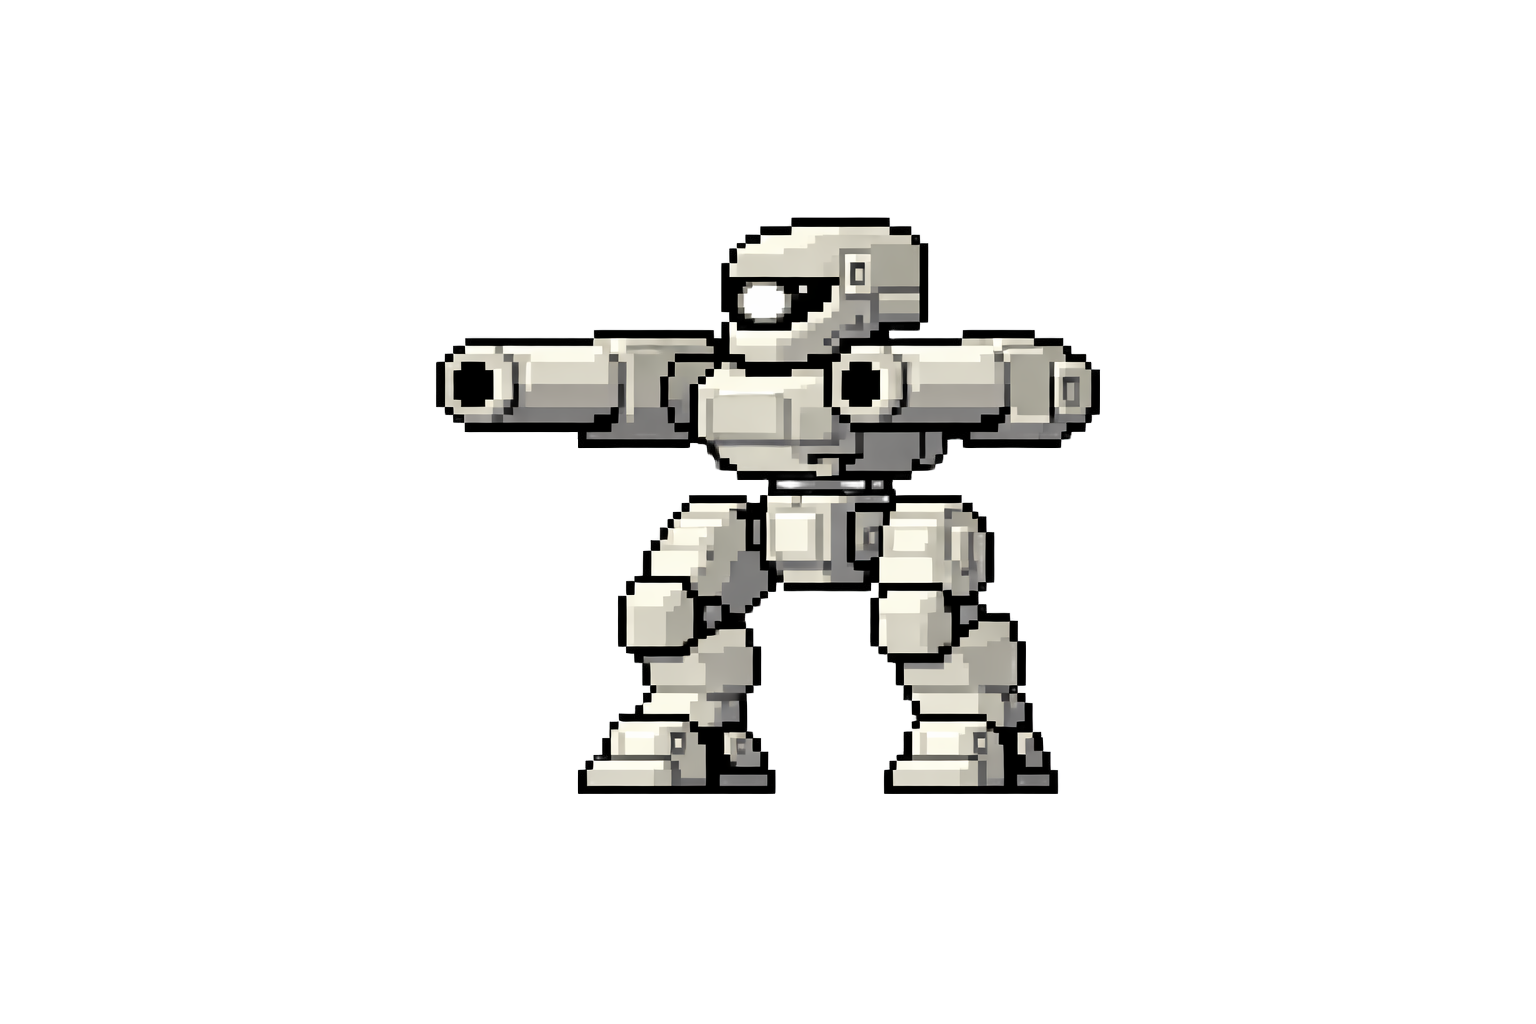
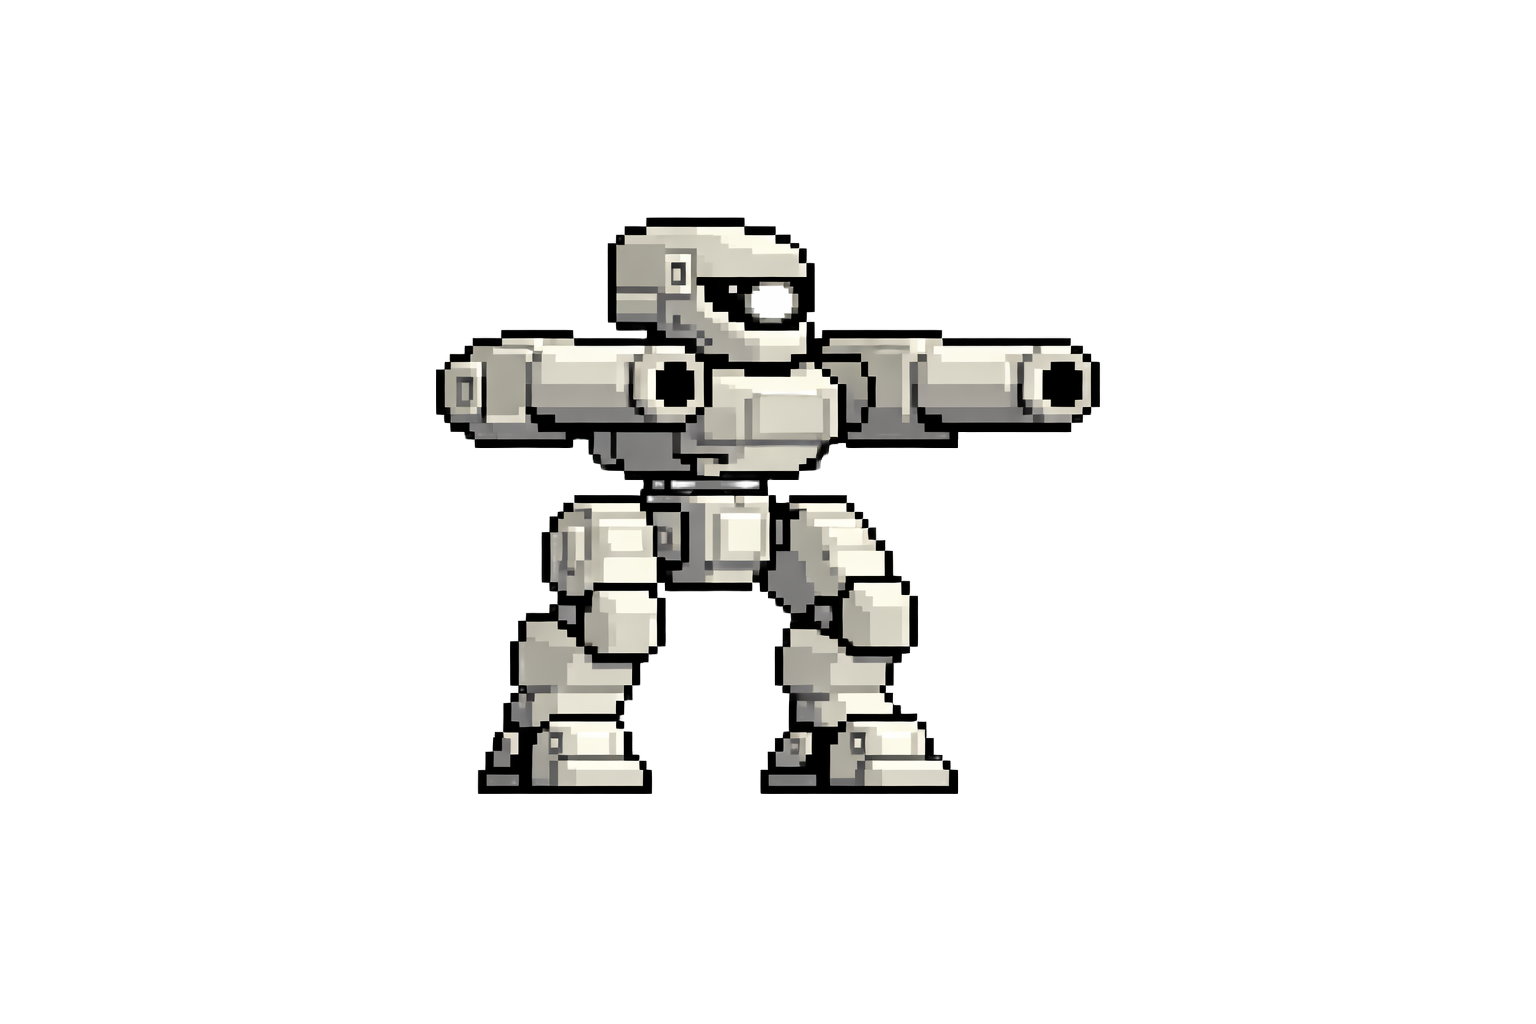
Simplified facing direction code, mech sprite faces right

Changed region(s): [[0.2812, 0.1875, 0.7188, 0.7812]]

diff --git a/Assets/Scripts/Player/PlayerControls.cs b/Assets/Scripts/Player/PlayerControls.cs
@@ -87,7 +87,7 @@ public class PlayerControls : MonoBehaviour
     private int movementDirection = 1;
     public int MovementDirection => movementDirection;
 
-    private int facing = -1;
+    private int facing = 1;
 
     // Input tracking
     private bool flyKeyHeld;
@@ -131,9 +131,9 @@ public class PlayerControls : MonoBehaviour
         if (dir != 0) movementDirection = dir;
 
         // Update facing based on aim position
-        int desiredFacing = aimMotor.AimWorldPosition.x >= transform.position.x ? -1 : 1;
+        int desiredFacing = aimMotor.AimWorldPosition.x >= transform.position.x ? 1 : -1;
         if (desiredFacing != facing)
-            UpdateFacing(aimMotor.AimWorldPosition);
+            UpdateFacing(desiredFacing);
 
         firePressedThisFrame = false;
     }
@@ -350,13 +350,8 @@ public class PlayerControls : MonoBehaviour
             rb.linearVelocity = new Vector2(rb.linearVelocity.x, -fallSettings.maxFallSpeed);
     }
 
-    void UpdateFacing(Vector2 aimWorldPos)
+    void UpdateFacing(int newFacing)
     {
-        int newFacing = aimWorldPos.x >= transform.position.x ? -1 : 1;
-
-        if (newFacing == facing)
-            return;
-
         facing = newFacing;
 
         Vector3 scale = visualRoot.localScale;
